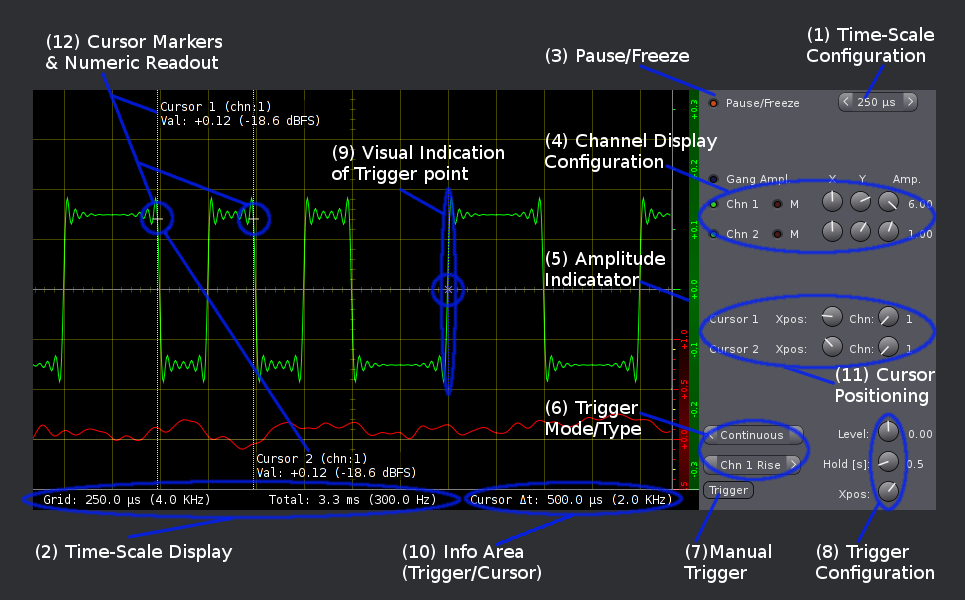
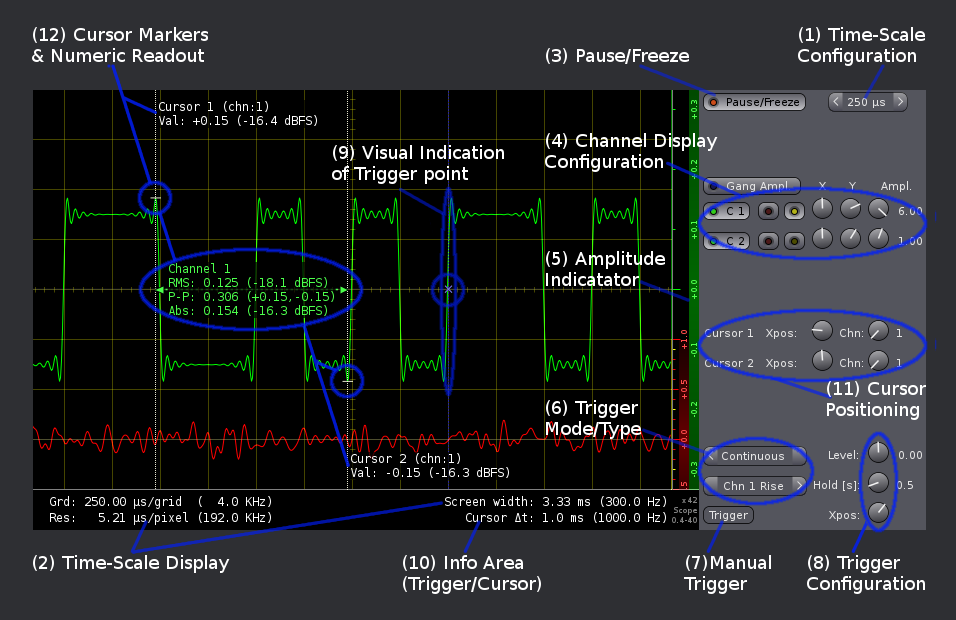
update documentation

Changed region(s): [[0.0, 0.03, 0.9707, 0.99]]

diff --git a/index.html b/index.html
@@ -72,7 +72,7 @@ The LV2 plugin comes in 1-4 channel variants. The oscilloscope allows to visuall
 <dt>(1) Time-Scale Configuration</dt><dd>Allows to set horizontal grid-spacing in a range from 50 &#181;sec to 1 second. The maximum oversampling-factor is 32. If the plugin runs at sampling-rates below than 32KSPS, the actual grid may differ from the selected setting. Check numeric the display (2) for the actual scale. If this setting is modified while paused (3), it will only become effective with the next acquisition run. Changing the time-scale also clears the display-buffer memory.</dd>
 <dt>(2) Time-Scale Display</dt><dd>Actual time-scale display. The unit per horizontal grid and the total range of data-acquisition is displayed in both seconds and Hz. Usually the value is identical to the setting of (1), but may differ for low or odd sample-rates. This readout is based on actual samples-per-pixel mapping and always valid for the displayed data.</dd>
 <dt>(3) Pause Toggle Button</dt><dd>Allows to freeze the display in order to inspect acquired data. Pause is only available in free-run (no trigger) and in continuous-trigger after a complete acquisition cycle has been completed. Freezing the display also enables cursors (10, 11) to analyze the data.</dd>
-<dt>(4) Channel Settings</dt><dd>Allows to alter the waveform display. Vertical Zoom and polarity can be set with the "Amp" dial in a range from -6 to +6 (linear scale, corresponding to 30dB). The 'gang' button enables identical amplitude scaling for all channels. X and Y offset are in percent of the screen width. These settings apply to the display-buffer only and can also be modified even when acquisition is paused. A Channel can be hidden (display, green button) and the display can be frozen (memory, red button).</dd>
+<dt>(4) Channel Settings</dt><dd>Allows to alter the waveform display. Vertical Zoom and polarity can be set with the "Amp" dial in a range from -6 to +6 (linear scale, corresponding to 30dB). The 'gang' button enables identical amplitude scaling for all channels. X and Y offset are in percent of the screen width. These settings apply to the display-buffer only and can also be modified even when acquisition is paused. A Channel can be hidden (display, green button), the display can be frozen (memory, red button) and the on-screen-display numeric annotations can be toggled (yellow button).</dd>
 <dt>(5) Amplitude Indicator</dt><dd>Color-coded indication of channel-amplitude range (green: left/chn 1, red: right/chn 2, blue: chn 3, magenta: chn 4).</dd>
 <dt>(6) Trigger Mode and Type</dt><dd>Allows to select trigger mode [Off, Manual, Cont'd] and Type [rising edge, falling edge and channel].</dd>
 <dt>(7) Manual Trigger Button</dt><dd>Only available in <em>Manual Trigger</em> mode, initiate a single sweep honoring trigger-settings (8).</dd>
@@ -80,7 +80,7 @@ The LV2 plugin comes in 1-4 channel variants. The oscilloscope allows to visuall
 <dt>(9) Trigger Indicator</dt><dd>A vertical dashed line indicating trigger position and channel and a cross at the given trigger level.</dd>
 <dt>(10) Info Area</dt><dd>When pause this area displays the time delta between the two cursor points in both seconds and Hertz. When running, this area is used to display trigger-status (if any).</dd>
 <dt>(11) Cursor Settings</dt><dd>Allows to set horizontal position of cursors for numeric readout when the display is paused. Regardless of channels, two cursors are available. The x-position is given in pixels from the left screen edge. The channel number for each cursor defines the numeric readout: The sample-value of the specified channel at given x-position is printed on the display.</dd>
-<dt>(12) Cursor</dt><dd>Visual Markers indicating signal level at given cursor position. At low-zoom levels - ie when one pixel corresponds to more than one raw audio sample - the minimum and maximum signal level is displayed.</dd>
+<dt>(12) Cursor and Numerics</dt><dd>Visual Markers indicating signal level at given cursor position for the chosen channel. At low-zoom levels - ie when one pixel corresponds to more than one raw audio sample - the minimum and maximum signal level at the marker-position is displayed. Additionally detailed per channel information can be displayed for the time range between the two marker positions. The latter includes RMS, peak-to-peak and absolute values. This on-screen-display is only available in paused mode (1) and can be toggled using the channel-display settings (4). If the selected area spans two acquisition cycles, a separation marker is added to the display and the OSD is postfixed with an asterisk.</dd>
 </dl>
 <hr/>
 <!-- start of page !-->
@@ -101,6 +101,6 @@ The LV2 plugin comes in 1-4 channel variants. The oscilloscope allows to visuall
 </table>
 </div>
 <div style="clear:both;"></div>
-<div class="footer"><hr/>Created by <a href="https://github.com/x42/lv2toweb">lv2toweb</a>. Generated on 2013-11-27 16:14:26 GMT</div>
+<div class="footer"><hr/>Created by <a href="https://github.com/x42/lv2toweb">lv2toweb</a>. Generated on 2013-12-05 18:01:36 GMT</div>
  </body>
  </html>

diff --git a/http___gareus_org_oss_lv2_sisco_4chan.html b/http___gareus_org_oss_lv2_sisco_4chan.html
@@ -303,6 +303,6 @@ var num_ports=10;
 </div>
 <!-- end of page !-->
 <div style="clear:both;"></div>
-<div class="footer"><hr/>Created by <a href="https://github.com/x42/lv2toweb">lv2toweb</a>. Generated on 2013-11-27 16:14:25 GMT</div>
+<div class="footer"><hr/>Created by <a href="https://github.com/x42/lv2toweb">lv2toweb</a>. Generated on 2013-12-05 18:01:35 GMT</div>
  </body>
  </html>

diff --git a/http___gareus_org_oss_lv2_sisco_4chan_gtk.html b/http___gareus_org_oss_lv2_sisco_4chan_gtk.html
@@ -303,6 +303,6 @@ var num_ports=10;
 </div>
 <!-- end of page !-->
 <div style="clear:both;"></div>
-<div class="footer"><hr/>Created by <a href="https://github.com/x42/lv2toweb">lv2toweb</a>. Generated on 2013-11-27 16:14:25 GMT</div>
+<div class="footer"><hr/>Created by <a href="https://github.com/x42/lv2toweb">lv2toweb</a>. Generated on 2013-12-05 18:01:35 GMT</div>
  </body>
  </html>

diff --git a/http___gareus_org_oss_lv2_sisco_3chan.html b/http___gareus_org_oss_lv2_sisco_3chan.html
@@ -272,6 +272,6 @@ var num_ports=8;
 </div>
 <!-- end of page !-->
 <div style="clear:both;"></div>
-<div class="footer"><hr/>Created by <a href="https://github.com/x42/lv2toweb">lv2toweb</a>. Generated on 2013-11-27 16:14:25 GMT</div>
+<div class="footer"><hr/>Created by <a href="https://github.com/x42/lv2toweb">lv2toweb</a>. Generated on 2013-12-05 18:01:34 GMT</div>
  </body>
  </html>

diff --git a/http___gareus_org_oss_lv2_sisco_3chan_gtk.html b/http___gareus_org_oss_lv2_sisco_3chan_gtk.html
@@ -272,6 +272,6 @@ var num_ports=8;
 </div>
 <!-- end of page !-->
 <div style="clear:both;"></div>
-<div class="footer"><hr/>Created by <a href="https://github.com/x42/lv2toweb">lv2toweb</a>. Generated on 2013-11-27 16:14:25 GMT</div>
+<div class="footer"><hr/>Created by <a href="https://github.com/x42/lv2toweb">lv2toweb</a>. Generated on 2013-12-05 18:01:35 GMT</div>
  </body>
  </html>

diff --git a/http___gareus_org_oss_lv2_sisco_Mono.html b/http___gareus_org_oss_lv2_sisco_Mono.html
@@ -210,6 +210,6 @@ var num_ports=4;
 </div>
 <!-- end of page !-->
 <div style="clear:both;"></div>
-<div class="footer"><hr/>Created by <a href="https://github.com/x42/lv2toweb">lv2toweb</a>. Generated on 2013-11-27 16:14:25 GMT</div>
+<div class="footer"><hr/>Created by <a href="https://github.com/x42/lv2toweb">lv2toweb</a>. Generated on 2013-12-05 18:01:35 GMT</div>
  </body>
  </html>

diff --git a/http___gareus_org_oss_lv2_sisco_Mono_gtk.html b/http___gareus_org_oss_lv2_sisco_Mono_gtk.html
@@ -210,6 +210,6 @@ var num_ports=4;
 </div>
 <!-- end of page !-->
 <div style="clear:both;"></div>
-<div class="footer"><hr/>Created by <a href="https://github.com/x42/lv2toweb">lv2toweb</a>. Generated on 2013-11-27 16:14:25 GMT</div>
+<div class="footer"><hr/>Created by <a href="https://github.com/x42/lv2toweb">lv2toweb</a>. Generated on 2013-12-05 18:01:35 GMT</div>
  </body>
  </html>

diff --git a/http___gareus_org_oss_lv2_sisco_Stereo.html b/http___gareus_org_oss_lv2_sisco_Stereo.html
@@ -244,6 +244,6 @@ var num_ports=6;
 </div>
 <!-- end of page !-->
 <div style="clear:both;"></div>
-<div class="footer"><hr/>Created by <a href="https://github.com/x42/lv2toweb">lv2toweb</a>. Generated on 2013-11-27 16:14:26 GMT</div>
+<div class="footer"><hr/>Created by <a href="https://github.com/x42/lv2toweb">lv2toweb</a>. Generated on 2013-12-05 18:01:36 GMT</div>
  </body>
  </html>

diff --git a/http___gareus_org_oss_lv2_sisco_Stereo_gtk.html b/http___gareus_org_oss_lv2_sisco_Stereo_gtk.html
@@ -241,6 +241,6 @@ var num_ports=6;
 </div>
 <!-- end of page !-->
 <div style="clear:both;"></div>
-<div class="footer"><hr/>Created by <a href="https://github.com/x42/lv2toweb">lv2toweb</a>. Generated on 2013-11-27 16:14:26 GMT</div>
+<div class="footer"><hr/>Created by <a href="https://github.com/x42/lv2toweb">lv2toweb</a>. Generated on 2013-12-05 18:01:36 GMT</div>
  </body>
  </html>
